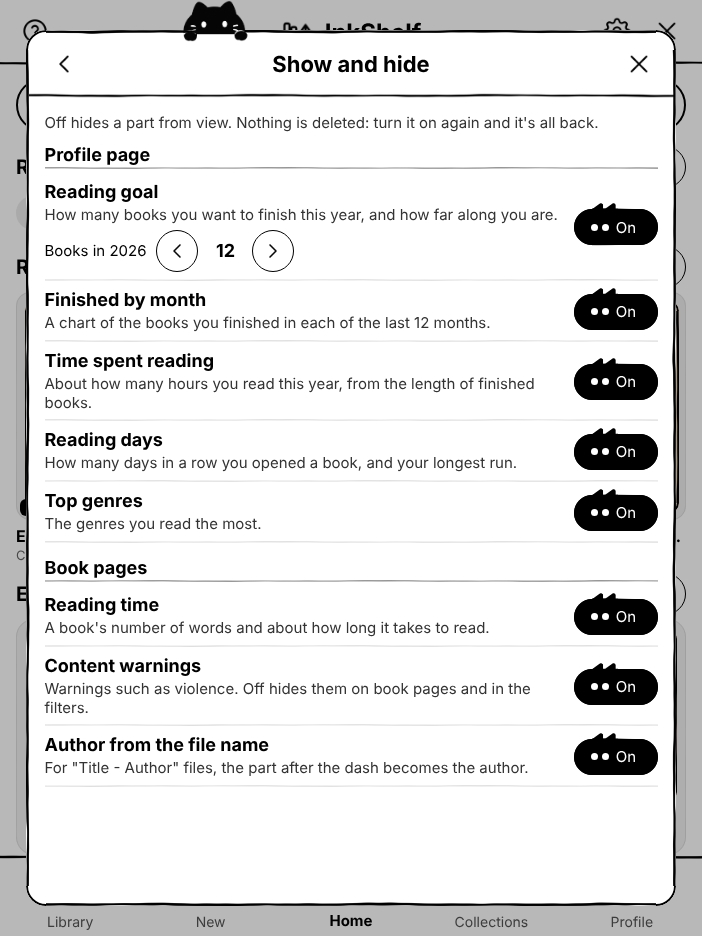
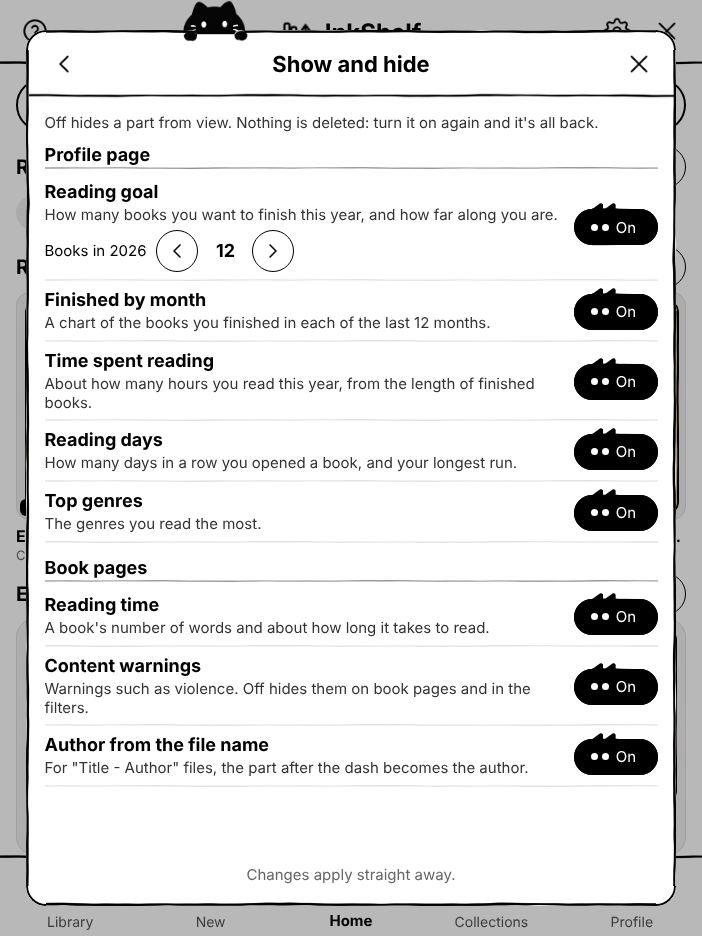
Settings pages: 'Changes apply straight away' sits at the bottom of the card
Claude-Session: https://claude.ai/code/session_01X56ddDHNWUKJn2BBuoFg9X

diff --git a/App.tsx b/App.tsx
@@ -3788,6 +3788,8 @@ function SettingsSheet({settings, change, onClose, onLibraries, onClearSearches,
           <Text style={[st.small, {marginBottom: px(12)}]}>How InkShelf looks. Your books and details stay the same.</Text>
           {choice(settings.look !== 'drawn', 'Original', 'Clean, straight lines.', () => change({look: 'plain', cats: false}))}
           {choice(settings.look === 'drawn', 'Cats', 'Hand-drawn lines, cat toggles, paw prints on notes and little cats around the pages.', () => change({look: 'drawn', cats: true}), <CatImg name="loaf" w={px(70)} style={{marginLeft: px(10)}} />)}
+          <View style={{flex: 1}} />
+          <Text style={[st.small, {marginBottom: px(4), textAlign: 'center', color: '#666666'}]}>Changes apply straight away.</Text>
         </View>
       </ModalCard>
     );
@@ -3826,6 +3828,8 @@ function SettingsSheet({settings, change, onClose, onLibraries, onClearSearches,
           {row('Reading time', "A book's number of words and about how long it takes to read.", settings.length, () => change({length: !settings.length}))}
           {row('Content warnings', 'Warnings such as violence. Off hides them on book pages and in the filters.', settings.warnings, () => change({warnings: !settings.warnings}))}
           {row('Author from the file name', 'For "Title - Author" files, the part after the dash becomes the author.', settings.dashAuthor !== false, () => change({dashAuthor: settings.dashAuthor === false}))}
+          <View style={{flex: 1}} />
+          <Text style={[st.small, {marginBottom: px(4), textAlign: 'center', color: '#666666'}]}>Changes apply straight away.</Text>
         </View>
       </ModalCard>
     );
@@ -3883,7 +3887,8 @@ function SettingsSheet({settings, change, onClose, onLibraries, onClearSearches,
             <Icon name="help" size={px(30)} />
           </RoundBtn>
         </View>
-        <Text style={[st.small, {marginTop: px(18), textAlign: 'center', color: '#666666'}]}>Changes apply straight away.</Text>
+        <View style={{flex: 1}} />
+        <Text style={[st.small, {marginBottom: px(4), textAlign: 'center', color: '#666666'}]}>Changes apply straight away.</Text>
       </View>
     </ModalCard>
   );
